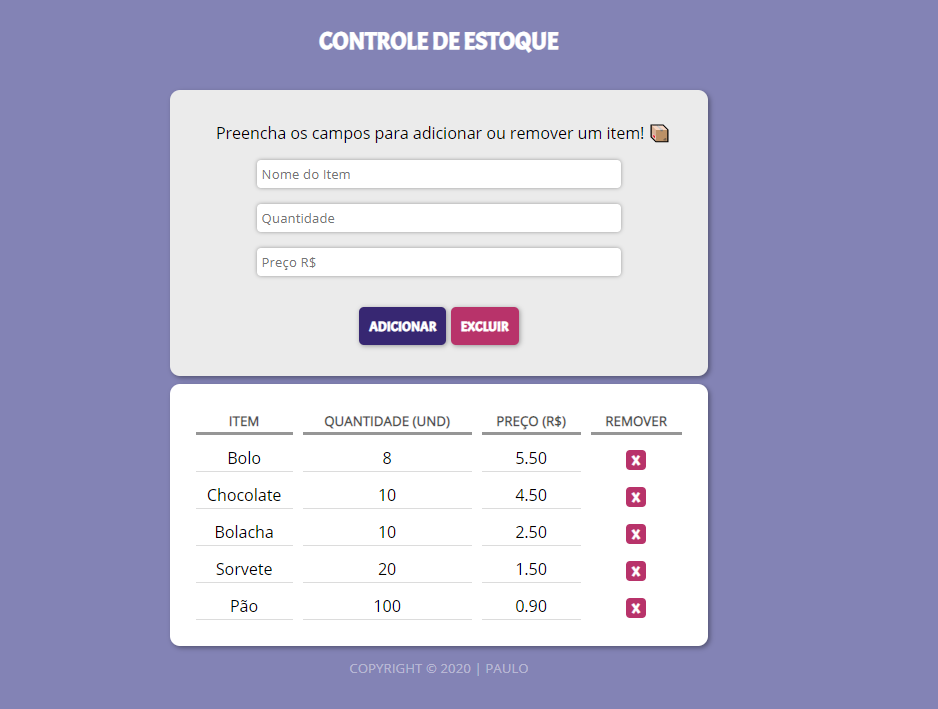
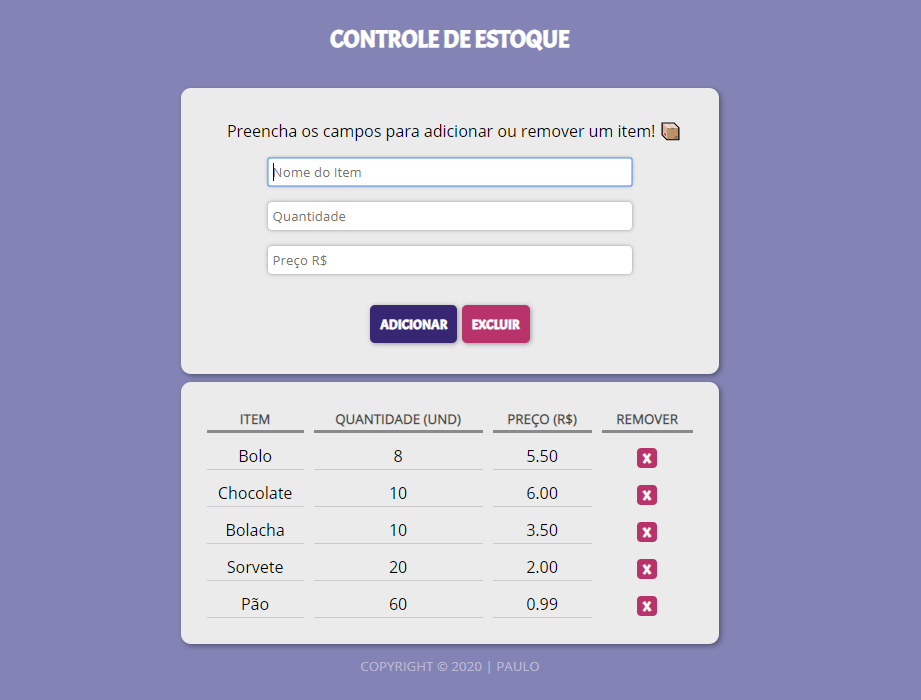
new img

diff --git a/src/css/view.css b/src/css/view.css
@@ -66,7 +66,7 @@ section#input {
 }
 
 section#output {
-    background-color: white;
+    background-color: #EBEBEB;
     color: black;
     border-radius: 10px;
     padding: 1%;
